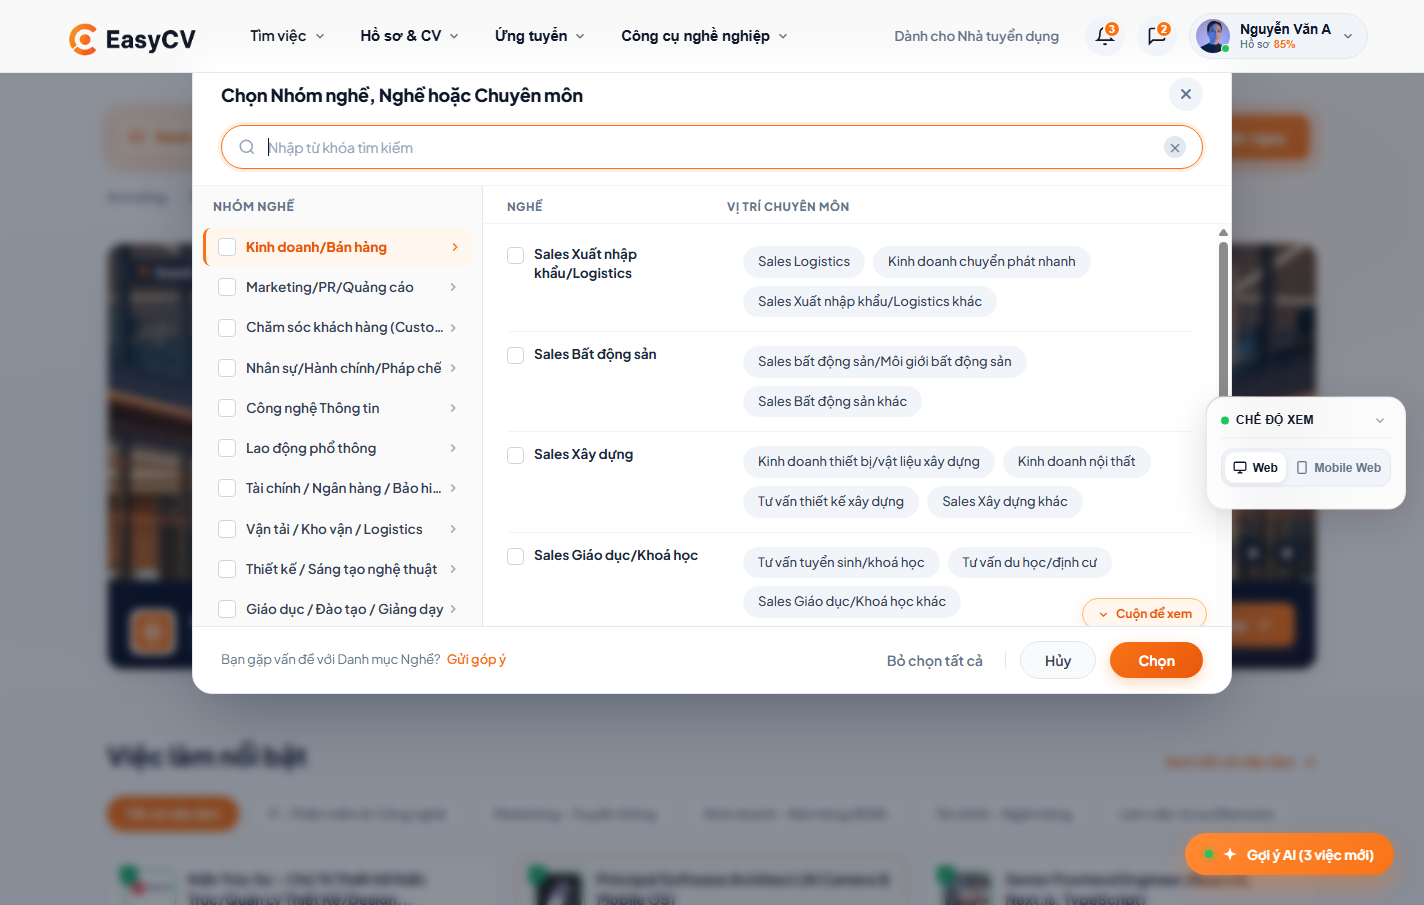
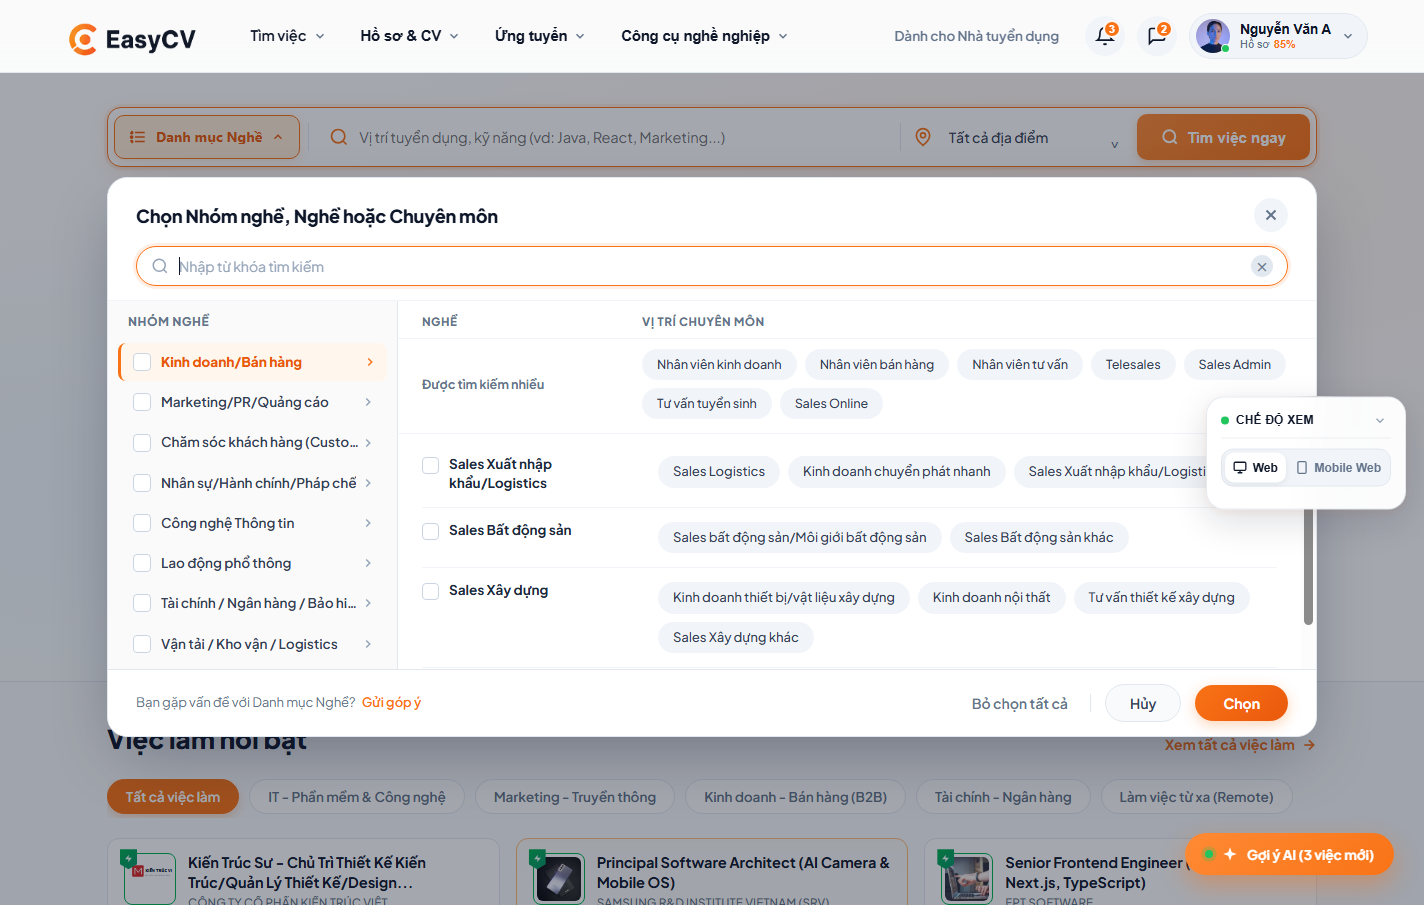
fix(category-modal): align popular keyword chips

diff --git a/scratch/test_homepage_category.js b/scratch/test_homepage_category.js
@@ -4,12 +4,22 @@
 const { spawn } = require('child_process');
 const http = require('http');
 const fs = require('fs');
+const os = require('os');
 const path = require('path');
 
 const chromePath = 'C:\\Program Files\\Google\\Chrome\\Application\\chrome.exe';
 const port = 9244;
+const chromeProfile = fs.mkdtempSync(path.join(os.tmpdir(), 'easycv-homepage-category-'));
+process.on('exit', () => {
+  try {
+    fs.rmSync(chromeProfile, { recursive: true, force: true });
+  } catch (_) {
+    // Chrome may still be releasing profile files on Windows; OS temp cleanup remains the fallback.
+  }
+});
 const chrome = spawn(chromePath, [
   '--headless=new',
+  `--user-data-dir=${chromeProfile}`,
   `--remote-debugging-port=${port}`,
   '--disable-gpu',
   '--window-size=1440,1000',
@@ -103,6 +113,22 @@ async function run() {
       };
     })()`);
     console.log('Modal opened state:', modalState);
+    if (!modalState.isOpen || modalState.title !== 'Chọn Nhóm nghề, Nghề hoặc Chuyên môn' || modalState.groupsCount === 0 || modalState.subgroupsCount === 0) {
+      throw new Error('Category modal did not open with the expected content');
+    }
+
+    const popularKeywordAlignment = await evaluate(`(() => {
+      const specialtyHeader = document.querySelector('.category-right-headers .col-specialty');
+      const firstPopularKeyword = document.querySelector('#categoryPopularChipList .category-popular-chip');
+      if (!specialtyHeader || !firstPopularKeyword) return null;
+      const headerLeft = specialtyHeader.getBoundingClientRect().left;
+      const keywordLeft = firstPopularKeyword.getBoundingClientRect().left;
+      return { headerLeft, keywordLeft, delta: Math.abs(headerLeft - keywordLeft) };
+    })()`);
+    console.log('Popular keyword alignment:', popularKeywordAlignment);
+    if (!popularKeywordAlignment || popularKeywordAlignment.delta > 1) {
+      throw new Error('Popular keyword chips are not aligned with the specialty column');
+    }
 
     // Capture screenshot of opened modal on homepage
     const screenshot2 = await send('Page.captureScreenshot', { format: 'png' });
@@ -130,11 +156,51 @@ async function run() {
       };
     })()`);
     console.log('Post apply state:', postApplyState);
+    if (!postApplyState.isClosed || postApplyState.labelText !== 'Sales Logistics' || !postApplyState.isActive) {
+      throw new Error('Category selection was not applied to the homepage trigger');
+    }
 
     // Capture screenshot showing updated button pill
     const screenshot3 = await send('Page.captureScreenshot', { format: 'png', clip: clip1 });
     fs.writeFileSync(path.join(__dirname, 'homepage_search_bar_applied.png'), Buffer.from(screenshot3.data, 'base64'));
     console.log('Saved scratch/homepage_search_bar_applied.png');
+
+    console.log('--- TEST 4: Responsive popular keyword alignment ---');
+    await send('Emulation.setDeviceMetricsOverride', { width: 900, height: 900, deviceScaleFactor: 1, mobile: false });
+    await evaluate(`document.getElementById('categoryFilterTrigger').click();`);
+    await delay(200);
+    const tabletAlignment = await evaluate(`(() => {
+      const header = document.querySelector('.category-right-headers .col-specialty');
+      const keyword = document.querySelector('#categoryPopularChipList .category-popular-chip');
+      const wrap = document.getElementById('categoryPopularWrap');
+      return {
+        display: getComputedStyle(wrap).display,
+        delta: Math.abs(header.getBoundingClientRect().left - keyword.getBoundingClientRect().left)
+      };
+    })()`);
+    console.log('Tablet popular keyword alignment:', tabletAlignment);
+    if (tabletAlignment.display !== 'grid' || tabletAlignment.delta > 1) {
+      throw new Error('Tablet popular keyword chips are not aligned with the specialty column');
+    }
+    await evaluate(`document.getElementById('categoryModalClose').click();`);
+
+    await send('Emulation.setDeviceMetricsOverride', { width: 390, height: 844, deviceScaleFactor: 1, mobile: true });
+    await evaluate(`document.getElementById('categoryFilterTrigger').click();`);
+    await delay(200);
+    const mobileLayout = await evaluate(`(() => {
+      const wrap = document.getElementById('categoryPopularWrap');
+      const style = getComputedStyle(wrap);
+      return {
+        display: style.display,
+        direction: style.flexDirection,
+        viewportWidth: document.documentElement.clientWidth,
+        scrollWidth: document.documentElement.scrollWidth
+      };
+    })()`);
+    console.log('Mobile popular keyword layout:', mobileLayout);
+    if (mobileLayout.display !== 'flex' || mobileLayout.direction !== 'column' || mobileLayout.scrollWidth > mobileLayout.viewportWidth) {
+      throw new Error('Mobile popular keyword layout is not stacked or causes horizontal overflow');
+    }
 
     ws.close();
     chrome.kill();

diff --git a/css/category-filter-modal.css b/css/category-filter-modal.css
@@ -253,10 +253,10 @@
 
 /* Popular keywords (Được tìm kiếm nhiều) */
 .category-popular-wrap {
-  display: flex;
+  display: grid;
+  grid-template-columns: 220px minmax(0, 1fr);
   align-items: center;
-  flex-wrap: wrap;
-  gap: 10px;
+  row-gap: 8px;
   padding: 10px 24px 14px 24px;
   border-bottom: 1px solid #F1F5F9;
   flex-shrink: 0;
@@ -807,6 +807,7 @@
     grid-template-columns: 240px minmax(0, 1fr);
   }
   .category-right-headers,
+  .category-popular-wrap,
   .category-subgroup-row {
     grid-template-columns: 180px minmax(0, 1fr);
   }
@@ -858,6 +859,7 @@
   }
 
   .category-popular-wrap {
+    display: flex;
     align-items: flex-start;
     flex-direction: column;
     gap: 8px;

diff --git a/public/css/category-filter-modal.css b/public/css/category-filter-modal.css
@@ -253,10 +253,10 @@
 
 /* Popular keywords (Được tìm kiếm nhiều) */
 .category-popular-wrap {
-  display: flex;
+  display: grid;
+  grid-template-columns: 220px minmax(0, 1fr);
   align-items: center;
-  flex-wrap: wrap;
-  gap: 10px;
+  row-gap: 8px;
   padding: 10px 24px 14px 24px;
   border-bottom: 1px solid #F1F5F9;
   flex-shrink: 0;
@@ -807,6 +807,7 @@
     grid-template-columns: 240px minmax(0, 1fr);
   }
   .category-right-headers,
+  .category-popular-wrap,
   .category-subgroup-row {
     grid-template-columns: 180px minmax(0, 1fr);
   }
@@ -858,6 +859,7 @@
   }
 
   .category-popular-wrap {
+    display: flex;
     align-items: flex-start;
     flex-direction: column;
     gap: 8px;

diff --git a/public/viec-lam.html b/public/viec-lam.html
@@ -11,7 +11,7 @@
   <link rel="stylesheet" href="css/home.css?v=4.3_cv_templates">
   <link rel="stylesheet" href="css/viec-lam.css?v=8.0_hover_apply">
   <link rel="stylesheet" href="css/location-picker.css?v=2.0">
-  <link rel="stylesheet" href="css/category-filter-modal.css?v=1.0">
+  <link rel="stylesheet" href="css/category-filter-modal.css?v=1.1_alignment">
   <!-- Critical Style: Bỏ tỷ lệ % match và Nút Ứng tuyển màu cam hover mới hiển thị -->
   <style id="easycv-job-card-hover-style">
     .badge-ai-match {

diff --git a/viec-lam.html b/viec-lam.html
@@ -11,7 +11,7 @@
   <link rel="stylesheet" href="css/home.css?v=4.3_cv_templates">
   <link rel="stylesheet" href="css/viec-lam.css?v=8.0_hover_apply">
   <link rel="stylesheet" href="css/location-picker.css?v=2.0">
-  <link rel="stylesheet" href="css/category-filter-modal.css?v=1.0">
+  <link rel="stylesheet" href="css/category-filter-modal.css?v=1.1_alignment">
   <!-- Critical Style: Bỏ tỷ lệ % match và Nút Ứng tuyển màu cam hover mới hiển thị -->
   <style id="easycv-job-card-hover-style">
     .badge-ai-match {

diff --git a/index.html b/index.html
@@ -10,7 +10,7 @@
   <link rel="stylesheet" href="css/navbar.css?v=6.0_no_scrollbar">
   <link rel="stylesheet" href="css/home.css?v=6.3_icon_favorite">
   <link rel="stylesheet" href="css/location-picker.css?v=1">
-  <link rel="stylesheet" href="css/category-filter-modal.css?v=1.0">
+  <link rel="stylesheet" href="css/category-filter-modal.css?v=1.1_alignment">
   <style>
     /* =========================================================================
        CRITICAL INLINE CSS: HERO SPLIT LAYOUT & SPONSORED RECRUITER SHOWCASE

diff --git a/public/index.html b/public/index.html
@@ -10,7 +10,7 @@
   <link rel="stylesheet" href="css/navbar.css?v=6.0_no_scrollbar">
   <link rel="stylesheet" href="css/home.css?v=6.3_icon_favorite">
   <link rel="stylesheet" href="css/location-picker.css?v=1">
-  <link rel="stylesheet" href="css/category-filter-modal.css?v=1.0">
+  <link rel="stylesheet" href="css/category-filter-modal.css?v=1.1_alignment">
   <style>
     /* =========================================================================
        CRITICAL INLINE CSS: HERO SPLIT LAYOUT & SPONSORED RECRUITER SHOWCASE

diff --git a/_bmad-output/planning-artifacts/.memlog.md b/_bmad-output/planning-artifacts/.memlog.md
@@ -93,3 +93,9 @@ updated: 2026-09-30T11:55
 - (decision) Người dùng yêu cầu 2 việc trong khối "Công ty nổi bật": (1) tên công ty hiển thị trên thẻ phải là **tên pháp lý chuẩn** (không dùng tên ghi nhớ nhanh/thương hiệu rút gọn đơn thuần), chuẩn hóa theo đúng kiểu dữ liệu mẫu tham khảo (ảnh Joboko: "Công ty TNHH Shopee - Shopee Việt Nam", "Ngân hàng TMCP Việt Nam Thịnh Vượng - VPBank" — định dạng "Loại hình + Tên pháp lý - Tên thương hiệu quen thuộc"); (2) nút "Yêu thích" **bỏ chữ**, chỉ dùng icon trái tim, tái sử dụng đúng template nút tròn icon-only đã có sẵn trong dự án (`.btn-bookmark` ở khối Việc làm nổi bật — hình tròn 32px, viền màu, icon trái tim fill khi active).
 - (action) Cập nhật `index.html` ⇄ `public/index.html`: đổi tên hiển thị 8 thẻ công ty theo định dạng chuẩn ("Công ty TNHH Phần Mềm FPT - FPT Software", "Công ty Cổ Phần VNG - VNG Corporation", "Tổng Công ty Dịch Vụ Số Viettel - Viettel Digital", "Ngân Hàng TMCP Kỹ Thương Việt Nam - Techcombank", "Công ty Cổ Phần Dịch Vụ Di Động Trực Tuyến - Ví MoMo", "Công ty TNHH Shopee - Shopee Việt Nam", "Ngân Hàng TMCP Quân Đội - MB Bank", "Công ty Cổ Phần VinAI - VinAI Research"); giữ nguyên tham số tìm kiếm `?q=` dùng tên thương hiệu ngắn (không đổi) vì bộ dữ liệu việc làm mẫu trong `js/viec-lam.js` đang lọc theo tên ngắn (`FPT Software`, `Techcombank`, `VNG Corporation`, `Shopee`, `MoMo`...) nên đổi query sẽ làm hỏng kết quả tìm kiếm. Xoá `<span>Yêu thích</span>` khỏi cả 8 nút, chỉ còn icon SVG trái tim (giữ nguyên `aria-label` mô tả đầy đủ cho khả năng tiếp cận). Cập nhật `css/home.css` ⇄ `public/css/home.css`: viết lại `.btn-favorite-company` thành nút tròn icon-only 32px (28px ở mobile) theo đúng khuôn mẫu `.btn-bookmark` (viền + nền trong suốt, hover đổi màu cam + scale nhẹ, trạng thái `.active` nền cam đặc + icon trắng fill); vì tên công ty giờ dài hơn nhiều, tăng `.company-card-title` lên `-webkit-line-clamp: 3` (từ 2), giảm font-size 14.5px→13px (12px ở mobile), tăng `min-height` tương ứng để đủ chỗ 3 dòng mà không vỡ layout. Nâng version `css/home.css?v=6.3_icon_favorite`.
 - (verification) `node --check js/home.js` pass; `grep` xác nhận 0 thẻ `<span>Yêu thích</span>` còn sót, đủ 8/8 `.btn-favorite-company`; `diff` xác nhận `index.html`, `css/home.css` đồng bộ 100% với `public/`. **Chưa kiểm thử trực quan trên trình duyệt thật** (môi trường không có headless browser) — khuyến nghị người dùng hard-refresh và kiểm tra: (a) tên công ty đầy đủ không bị vỡ layout ở 3 dòng, (b) nút trái tim icon-only hiển thị và toggle đúng màu cam khi bấm "Yêu thích".
+- (decision) Căn hàng từ khóa của khối “Được tìm kiếm nhiều” theo cùng lưới cột với tiêu đề “VỊ TRÍ CHUYÊN MÔN”; giữ nguyên bố cục xếp dọc trên mobile dưới 768px.
+- (action) Cập nhật đồng bộ `css/category-filter-modal.css` và `public/css/category-filter-modal.css`; bổ sung assertion căn lề và Chrome profile cô lập trong `scratch/test_homepage_category.js`; ghi nhận đặc tả tại `_bmad-output/implementation-artifacts/spec-align-popular-search-keywords.md` và ma trận kỹ thuật trong `category-filter-modal-implementation.md`.
+- (verification) `scratch/test_homepage_category.js` chạy PASS trên Chrome headless: mép trái tiêu đề chuyên môn và chip từ khóa đầu tiên cùng ở `642px` (`delta = 0px`); luồng mở modal, chọn `Sales Logistics` và đóng modal đều PASS. Hai bản CSS root/public có SHA-256 trùng khớp; `git diff --check` PASS.
+- (decision) Sau review, chấp nhận tăng cache key stylesheet và mở rộng kiểm thử responsive để bảo đảm bản sửa căn lề được tải mới và không làm hỏng bố cục tablet/mobile.
+- (action) Nâng `category-filter-modal.css` từ `v=1.0` lên `v=1.1_alignment` trong `index.html`, `viec-lam.html` và hai bản `public/`; tăng assertion cho trạng thái mở/chọn, breakpoint 900px/390px và dọn Chrome profile tạm khi tiến trình kết thúc.
+- (verification) Chrome headless PASS ở desktop 1440px (`delta = 0px`), tablet 900px (`display = grid`, `delta = 0px`) và mobile 390px (`display = flex`, `flex-direction = column`, `scrollWidth = viewportWidth = 390px`).

diff --git a/_bmad-output/implementation-artifacts/spec-align-popular-search-keywords.md b/_bmad-output/implementation-artifacts/spec-align-popular-search-keywords.md
@@ -1,0 +1,41 @@
+---
+title: 'Align popular search keywords in category modal'
+type: 'bugfix'
+created: '2026-10-03'
+status: 'done'
+route: 'oneshot'
+review_loop_iteration: 0
+context: []
+---
+
+<frozen-after-approval reason="human-owned intent — do not modify unless human renegotiates">
+
+## Intent
+
+**Problem:** The keyword chips in the “Được tìm kiếm nhiều” row start too far left and do not align with the “VỊ TRÍ CHUYÊN MÔN” column used by the rows below.
+
+**Approach:** Reuse the category modal’s existing two-column grid dimensions for the popular-keyword row, preserve its stacked mobile layout, and keep the root and `public/` static builds synchronized.
+
+</frozen-after-approval>
+
+## Implementation Notes
+
+- Replaced the desktop popular-keyword row's content-width flex layout with the modal's existing `220px minmax(0, 1fr)` column grid; the first keyword now aligns with the “VỊ TRÍ CHUYÊN MÔN” header.
+- Added the matching `180px` tablet grid rule and restored the existing stacked flex layout below `768px`.
+- Updated both `css/category-filter-modal.css` and `public/css/category-filter-modal.css` and extended `scratch/test_homepage_category.js` with a one-pixel alignment assertion plus an isolated Chrome profile.
+- Incremented the stylesheet cache key in both root/public homepage and jobs-page HTML consumers.
+- Headless Chrome verification passed: desktop and tablet alignment delta `0px`; mobile restored `display: flex`, `flex-direction: column`, and `390px` scroll width within a `390px` viewport; modal open/select/apply assertions also passed.
+
+## Review Triage Log
+
+- `medium` — stale `v=1.0` stylesheet URLs could preserve the old layout in browser/CDN caches; patched all four HTML consumers to `v=1.1_alignment`.
+- `medium` — modal-open state was logged but not asserted; patched explicit title, visibility, group-count, and subgroup-count checks.
+- `medium` — selection/application state was logged but not asserted; patched explicit closed-state, `Sales Logistics` label, and active-state checks.
+- `medium` — tablet/mobile responsive behavior was untested; patched 900px grid alignment and 390px stacked-layout/overflow assertions.
+- `low` — the jobs-page consumer is not opened by this homepage-focused test; rejected because the change is in the byte-identical shared stylesheet/markup contract and adding a second-page harness is disproportionate to this scoped fix.
+- `low` — isolated Chrome profiles could accumulate in the OS temp directory; patched best-effort process-exit cleanup for the exact generated directory.
+- `low` — fixed two-second Chrome readiness delay can fail on unusually slow startup; rejected as a pre-existing harness limitation whose retry refactor exceeds this UI fix.
+- `low` — fixed debugging port can collide with concurrent runs; rejected as a rare developer-only condition whose dynamic-port refactor exceeds this UI fix.
+- `low` — evidence PNGs are overwritten rather than snapshot-compared; rejected because they are intentionally retained implementation evidence and were visually inspected, while adding a snapshot framework is disproportionate.
+- `false` — `in-progress` status was correct during the required review phase; this finalization step now marks the completed spec `done`.
+

diff --git a/_bmad-output/implementation-artifacts/category-filter-modal-implementation.md b/_bmad-output/implementation-artifacts/category-filter-modal-implementation.md
@@ -73,3 +73,13 @@ Theo yêu cầu của người dùng cùng ảnh tham khảo trực quan (chuẩ
   - `scratch/homepage_search_bar_applied.png` (Nút pill đổi tên theo danh mục được chọn).
   - `scratch/homepage_category_modal_mobile.png` (Modal hiển thị trên smartphone 390px).
 
+---
+
+## 6. Popular Keyword Column Alignment — 2026-10-03
+
+| Item | Previous state | Technical solution | Verified result |
+|---|---|---|---|
+| “Được tìm kiếm nhiều” keyword inset | The row used content-width flex spacing, so the first keyword began left of the “VỊ TRÍ CHUYÊN MÔN” column | Reused the modal's `220px minmax(0, 1fr)` desktop grid and `180px` tablet grid; retained stacked flex below `768px` | Headless Chrome measured both left edges at `642px` (`0px` delta) |
+| Static build synchronization and cache refresh | Root and `public/` styles could diverge or deployed clients could retain `v=1.0` | Applied the same responsive rules to both CSS copies and raised all HTML consumers to `v=1.1_alignment` | Root/public CSS and HTML pairs match |
+| Regression coverage | The homepage modal test checked opening and selection but not column alignment | Added explicit modal/selection assertions, a one-pixel alignment tolerance at desktop and tablet, and a stacked-layout/overflow check at 390px | `scratch/test_homepage_category.js` PASS at 1440px, 900px, and 390px |
+
